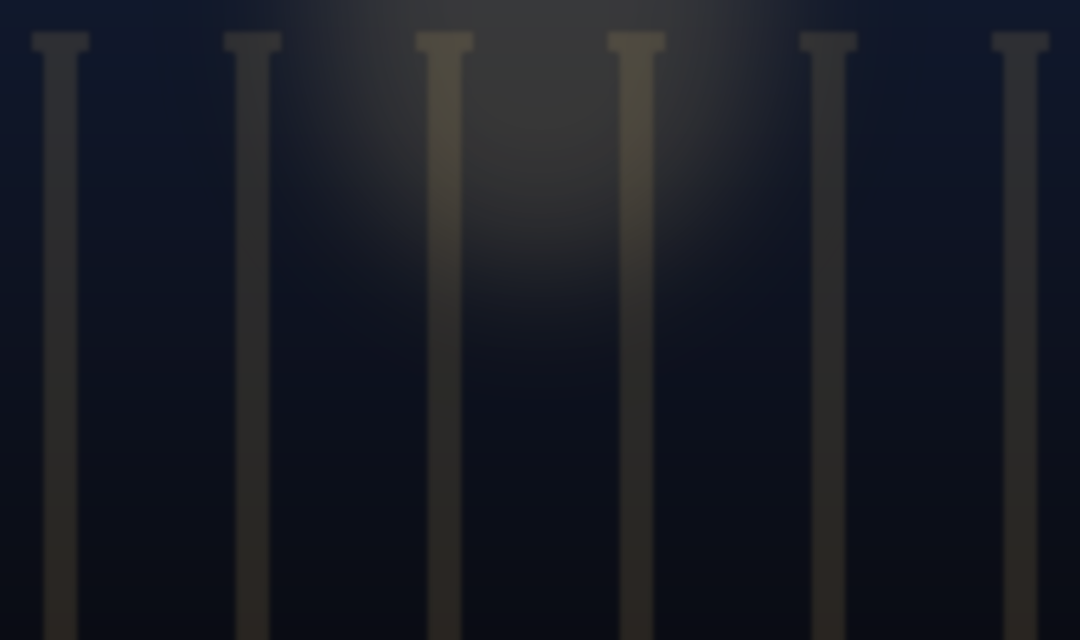
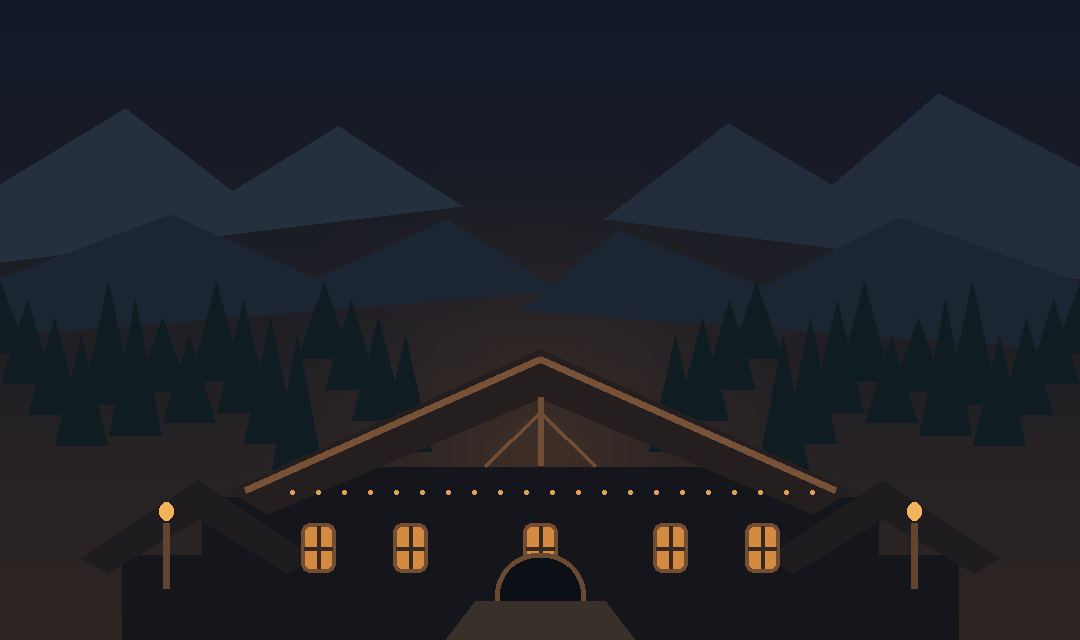
upd back + sucess

diff --git a/docs/technical/06-ui-implementation.md b/docs/technical/06-ui-implementation.md
@@ -45,8 +45,8 @@
 - `scenes/screens/quick_match.tscn`: the current deck only (`CurrentDeckTile`) and Change deck (`DeckPicker`, then the screen rebuilds keeping the opponent and difficulty); Play right after the difficulty.
 - `scenes/screens/collection.tscn`: every card, captions "× n" / "Not owned" (no links: My decks and Nibelheim are in the main menu).
 - `scenes/screens/deck_list.tscn` and `deck_editor.tscn` (`DeckBoard` label and `ChangeBoardButton`, which opens `BoardPicker`; `choose_board()` → `Cosmetics.set_board()`; Quick match puts the deck's board in `DuelSetup.player_board`, and the duel adds an `OwnBoardBackdrop` in the player's zone frame; `DeckEditor`, `DeckEditor.deck_id` set before opening; no drag and drop: a tap on a grid card adds a copy or opens `CardDetail` with the reason, a deck chip (`Chip_<id>`) has a `RemoveButton` (X) that takes a copy out, and a long press on its name (`ChipCard`) opens `CardDetail` (`LongPress`, `scenes/components/long_press.gd`; a tap does nothing); cards whose available copies are all in the deck are hidden from the grid; Auto-fill uses `DeckRules.auto_fill()`, Starter deck `DeckEditor.starter_cards()`, Empty the deck `clear_deck()`; `handle_back()` opens the `LeavePrompt` popup while `DeckRules.problems()` is not empty): player decks from `SaveManager`, rules in `DeckRules` (`data/decks/deck_rules.gd`: eligibility, `can_add()`, `problems()` as translation keys, `to_deck_data()` for the engine, curve and type counts).
-- `scenes/screens/achievements.tscn`: rows from `Achievements.LIST` (`data/achievements.gd`): progress from `profile["stats"]`, reached IDs in `profile["achievements"]`, and manually claimed IDs in `profile["claimed_achievements"]`. Reached achievements wait for a claim in this screen; the claim pays Rhinegold and XP.
-- The duel records a finished Quick match with `Achievements.record_match()` (the record replayed with a `MatchStats` observer, `data/match_stats.gd`: artifacts played, reforge, Ring, units lost; an undone play is rolled back) and takes back newly reached achievements with `Achievements.revert()` when the winning play is undone; Nibelheim calls `Achievements.record_craft()` and shows `MenuUI.toast()` (a message at the top of the screen with an icon, sliding in). Matches give XP through `PlayerLevel.add_xp()` (`data/player_level.gd`: curve, level from `profile["xp"]`, Rhinegold of each level reached; `PlayerLevel.revert()` takes it back with the match; level rewards wait in `PlayerLevel.pending_rewards()` and are paid by `claim_rewards()` from the main menu's `LevelButton`; `MenuUI.wiggle()` rotates the XP rune of the level badge, and the trophy while `Achievements.has_claimable()` — an icon placed over the button with `MenuUI.button_icon()` so only it moves); the results show `ResultHeading` (icon and status, unframed), then the `XpPanel` (`FrameIcon`, `XpLabel`, `MenuUI.level_bar()` whose gauge `_animate_xp_gauge()` fills from the XP before the match, level by level), the Rhinegold, and `ResultAchievements` (one frame, one `FrameIcon`, an `Achievement_<id>` line each), appearing one after the other (`_appear()`).
+- `scenes/screens/achievements.tscn`: rows from `Achievements.LIST` (`data/achievements.gd`): progress from match/crafting stats and unlocked cosmetics, reached IDs in `profile["achievements"]`, and manually claimed IDs in `profile["claimed_achievements"]`. Existing profile progress is reconciled on the main menu and when opening this screen. Reached achievements wait for a claim here; the claim pays Rhinegold and XP.
+- The duel records a finished Quick match with `Achievements.record_match()` (the record replayed with a `MatchStats` observer, `data/match_stats.gd`: artifacts, spells and Leader ability uses, reforge, Ring and units lost; an undone play is rolled back) and takes back newly reached achievements with `Achievements.revert()` when the winning play is undone; Nibelheim calls `Achievements.record_craft()` for cards and refreshes achievement progress after unlocking powers or backgrounds, then shows any new achievements in its toast. Matches give XP through `PlayerLevel.add_xp()` (`data/player_level.gd`: curve, level from `profile["xp"]`, Rhinegold of each level reached; `PlayerLevel.revert()` takes it back with the match; level rewards wait in `PlayerLevel.pending_rewards()` and are paid by `claim_rewards()` from the main menu's `LevelButton`; `MenuUI.wiggle()` rotates the XP rune of the level badge, and the trophy while `Achievements.has_claimable()` — an icon placed over the button with `MenuUI.button_icon()` so only it moves); the results show `ResultHeading` (icon and status, unframed), then the `XpPanel` (`FrameIcon`, `XpLabel`, `MenuUI.level_bar()` whose gauge `_animate_xp_gauge()` fills from the XP before the match, level by level), the Rhinegold, and `ResultAchievements` (one frame, one `FrameIcon`, an `Achievement_<id>` line each), appearing one after the other (`_appear()`).
 - `scenes/screens/nibelheim.tscn`: tabs `CardsTab` / `LeadersTab` / `BackgroundsTab`. Cards: the cards still missing copies, `SaveManager.craft()`; prices and rewards in `Progression` (`data/progression.gd`). Leaders (`LeaderPowers` scroll): a `Leader_<id>` panel per Leader with `Power0`…`Power2` rows, each showing a styled power title and action on separate lines; `unlock_power()` calls `LeaderPowers.unlock()` (`data/leader_powers.gd`: level and Rhinegold checked, `profile["leader_powers"]`). Backgrounds (`Backgrounds` scroll): a `Background_<id>` card per `Cosmetics.LIST` entry with `BuyButton` or `State`; `buy_background()` calls `Cosmetics.buy()` (`data/cosmetics.gd`: catalogue, level and Rhinegold, `profile["cosmetics"]`, `home_background`, a deck entry's `board`, `texture()`, `backdrop()`).
 - Deck editor: `LeaderPower` label and `ChangePowerButton`, which opens `PowerPicker` (`Power_<n>` tiles, locked ones disabled); `choose_power()` saves the deck entry's `power`. `DeckRules.to_deck_data()` gives the engine the Leader `with_power(LeaderPowers.of_entry(entry))`; the duel names the ability with `LeaderData.ability_key()`.
 - `DuelSetup` carries `DeckData` (a player deck through `DeckRules.to_deck_data()`, or a starter deck) and `rewards` (Quick match: a win pays `Progression.quick_match_reward(difficulty)`; the duel pays when the match is over and takes it back if the winning play is undone).

diff --git a/docs/functional/07-ui-ux.md b/docs/functional/07-ui-ux.md
@@ -54,7 +54,7 @@ flowchart TD
 | Collection | Rhinegold counter; no links (My decks and Nibelheim are in the main menu). Faction chips (All + one icon per faction) always shown; **Filters** (with the number of active filters) unfolds chip rows for cost (0–5, 6+), type, rarity, trait and owned / missing — one chip per row, "All" first; each row has its caption on the left (Energy, with the Energy icon; Type; Rarity; Trait; Copies) so the chips line up. Count "owned / shown". Grid of 3 cards per row, by faction, cost, then name; under each card "× n" or "Not owned" (card faded). Tapping a card opens it large with its flavour and "Owned: n (up to m per deck)"; tapping anywhere closes it |
 | My decks | One tile per deck — one per faction, the starter decks' copies —: faction icon and colour, name, Leader · "Ready to play" or the first problem ("17 / 20 cards"); a tap opens the editor; the list is centred vertically. No New deck, Duplicate or Delete |
 | Deck editor | One screen, **no drag and drop**. Top: faction icon, **name** (the faction's, not editable), Leader; the **Leader's power** in use ("Power: Walvater — Deal 2 damage to a unit. (2 Energy)") with **Change the Leader's power** (a list of the base ability and the powers, the locked ones greyed with "unlocked in Nibelheim from level 5"); the deck's **board** ("Board: Valhalla") with **Change the board** (Default and the boards owned, as pictures; without any, where to buy them); state ("Ready to play" in gold, or every problem in red). **Deck zone**: "Deck n / 20" with a **gauge** (Energy blue while filling, gold at 20), units / spells / artifacts, one chip per card (cost · name × copies, framed in the card's colour; empty: how to add cards). Below: the Leader's faction and Neutral cards, filters as in the Collection with "Owned" preselected, "in deck / available" under each card. **Tap a card to add a copy** — or, if it cannot be added, the card shows large with why; each chip has a red **X** that takes a copy out; a **long press** on its name shows the card large (copies in the deck); a plain tap on the name does nothing. A card whose available copies are all in the deck leaves the list below. A vertical swipe scrolls and never adds a card. At the bottom: **Auto-fill** and **Starter deck** (both replace the cards; on a deck that is not empty they ask first, Cancel highlighted), then **Empty the deck** (red text, asks first; hidden when the deck is empty). Leaving a deck that cannot be played (Back or the Android back button) opens a popup: "Deck not complete", its problems, **Keep editing** (highlighted) or **Leave** (red) |
-| Achievements | Rhinegold counter; "n / 13 unlocked"; one row per achievement: trophy (gold once unlocked, grey before), name, what to do, progress ("3 / 10") or Unlocked, reward ("+20 Rhinegold · +25 XP"); the list is centred vertically and scrolls. A reached achievement shows **Claim**; claiming it pays its Rhinegold and XP with a message at the top of the screen (trophy icon). An achievement reached in Nibelheim shows the same kind of message |
+| Achievements | Rhinegold counter; "n / total claimed"; one row per achievement: trophy (gold once claimed or ready to claim, grey before), name, what to do, progress ("3 / 10") or Claimed, reward ("+20 Rhinegold · +25 XP"); the list is centred vertically and scrolls. A reached achievement shows **Claim**; claiming it pays its Rhinegold and XP with a message at the top of the screen (trophy icon). An achievement reached in Nibelheim shows the same kind of message |
 | Nibelheim | Rhinegold counter; one line of story; three tabs. **Cards**: the Collection filters; the cards still missing copies (up to a deck's worth), each with "owned / max · price". A tap shows the card large with **Forge — price** (greyed, with the Rhinegold missing, when short). **Leaders**: one panel per Leader (border in the faction colour) with its base ability and its two powers — name, effect, Energy cost — and, for each power, Unlocked or its price (greyed with "From level 5" or the Rhinegold missing); unlocking shows a message at the top of the screen. **Backgrounds**: two columns of cards — picture, name, kind (Home background / Board), then Owned or its price (greyed with "From level 5" or the Rhinegold missing) |
 | Settings | Music and sound-effect volumes, language (device language or English / Deutsch / Español / Français); **home background** (Default and each one owned, as thumbnails; without any, where to buy them); **reset progress** (collection, decks, Rhinegold, campaign, achievements; asks for confirmation, Cancel highlighted; settings are kept). The content is centred vertically under the title |
 
@@ -88,6 +88,7 @@ flowchart TD
 ```
 
 - **Leader panel** (both players): portrait (or the Leader's initial while there is no art), name, Life, Energy, and the ability as a button showing its **name**, cost and effect. The opponent's ability button is read-only. Tapping the panel targets that Leader.
+- The Energy counter shows the current amount only during that Leader's turn; otherwise it shows `- / max`, since unused Energy is reset when that Leader's next turn begins.
 - Ability names come from `cards/leaders.md` (`ability_name`): Wotan — *Spear of Treaties*, Alberich — *Lord of the Nibelungs*, Siegfried — *Spear-breaker*, Brünnhilde — *Chooser of the Slain*.
 - A Leader playing with a power shows the power's name and effect instead (`cards/leader_powers.md`: German names, e.g. *Wotans Zorn*).
 - The two play areas share the free height, so the hand stays at the bottom whatever the screen ratio.

diff --git a/docs/functional/06-progression.md b/docs/functional/06-progression.md
@@ -40,25 +40,45 @@
 
 ## Achievements
 
-Quick matches count (a duel without rewards does not), and crafting in Nibelheim. Reaching a target makes an achievement available to claim in the Achievements screen; its Rhinegold and 25 XP are paid only after the player claims it. Undoing the winning play from the results takes back the match's statistics and any achievements it newly made available.
+Quick matches count (a duel without rewards does not): wins, artifacts, spells and Leader ability uses. Crafting, unlocking Leader powers and unlocking backgrounds in Nibelheim count too. Reaching a target makes an achievement available to claim in the Achievements screen; its Rhinegold and 25 XP are paid only after the player claims it. Undoing the winning play from the results takes back the match's statistics and any achievements it newly made available.
 
 | Achievement | To do | Rhinegold |
 |-------------|-------|-----------|
 | *Hojotoho!* | Win a Quick match | 20 |
-| *Einherjar* | Win 10 matches | 50 |
-| *Valhalla* | Win 50 matches | 150 |
+| *Battle-tested* | Win 5 Quick matches | 30 |
+| *Einherjar* | Win 10 Quick matches | 50 |
+| *Legend of Midgard* | Win 20 Quick matches | 80 |
+| *Valhalla* | Win 50 Quick matches | 150 |
+| *Balanced Victory* | Win a Quick match on Normal difficulty | 30 |
 | *The Ring Cycle* | Play 100 matches | 100 |
 | *Four Evenings* | Win with each of the four Leaders | 100 |
 | *Götterdämmerung* | Win a match on Hard | 60 |
 | *Twilight* | Win with your Leader at 1 Life | 40 |
 | *Renunciation of Love* | Win holding the Ring, the opponent never having had it | 40 |
 | *Notung! Notung!* | Reforge Nothung in 10 matches | 80 |
-| *The Nibelung Hoard* | Play 20 artifacts | 40 |
+| *Relic Seeker* | Play 10 artifacts in Quick matches | 20 |
+| *The Nibelung Hoard* | Play 20 artifacts in Quick matches | 40 |
+| *Hoard Keeper* | Play 50 artifacts in Quick matches | 100 |
+| *Rune Reader* | Play 10 spells in Quick matches | 20 |
+| *Rune Singer* | Play 20 spells in Quick matches | 40 |
+| *Master of Runes* | Play 50 spells in Quick matches | 100 |
+| *Call of the Leader* | Use your Leader's ability 10 times in Quick matches | 20 |
+| *Leader's Command* | Use your Leader's ability 20 times in Quick matches | 40 |
+| *Master of the Leader's Power* | Use your Leader's ability 50 times in Quick matches | 100 |
 | *Invulnerable* | Win without losing a unit | 60 |
 | *Mime's Apprentice* | Forge a card in Nibelheim | 20 |
+| *Craftsman's Hand* | Forge 2 cards in Nibelheim | 20 |
+| *Master Smith* | Forge 5 cards in Nibelheim | 40 |
 | *The Forging Song* | Forge 10 cards in Nibelheim | 60 |
+| *Power Awakened* | Unlock a Leader power in Nibelheim | 20 |
+| *Double Power* | Unlock 2 Leader powers in Nibelheim | 40 |
+| *Power Collector* | Unlock 4 Leader powers in Nibelheim | 80 |
+| *Master of All Powers* | Unlock every available Leader power in Nibelheim | 150 |
+| *World Wanderer* | Unlock a background in Nibelheim | 20 |
+| *Realm Explorer* | Unlock 2 backgrounds in Nibelheim | 40 |
+| *Across All Realms* | Unlock every available background in Nibelheim | 100 |
 
-> **Decision (2026-11-20):** first set of 13 achievements paying Rhinegold (and, since the [player level](#player-level), 25 XP each); *Renunciation of Love* becomes "win holding the Ring, the opponent never having had it" (the Ring does not exist at the start of a match). No tiers (bronze / silver / gold): dropped on 2026-11-26.
+> **Decision (2026-11-20):** the initial set paid Rhinegold (and, since the [player level](#player-level), 25 XP each); *Renunciation of Love* means "win holding the Ring, the opponent never having had it" (the Ring does not exist at the start of a match). Bronze / silver / gold badges were dropped on 2026-11-26; cumulative milestone achievements were added on 2026-11-27.
 
 ## Player level
 
@@ -134,9 +154,9 @@ Backgrounds are **bought in Nibelheim** (Backgrounds tab), like Leader powers: e
 | Background | Kind | Level | Rhinegold |
 |------------|------|-------|-----------|
 | *The Rhine Depths* | Home | 5 | 150 |
-| *Valhalla* | Board | 10 | 200 |
+| *The Gibichung Hall* | Board | 10 | 200 |
 | *Nibelheim* | Home | 15 | 300 |
-| *The Valkyrie Rock* | Board | 20 | 400 |
+| *Fafnir's Forest* | Board | 20 | 400 |
 | *Valhalla in Flames* | Home | 25 | 500 |
 | *The Ring* | Board | 30 | 600 |
 

diff --git a/docs/roadmap.md b/docs/roadmap.md
@@ -1,7 +1,7 @@
 # Roadmap
 
 > Development milestones from the spec to the first Google Play release, with progress tracking.
-> Status: Draft · Last updated: 2026-11-20
+> Status: Draft · Last updated: 2026-11-27
 
 Principle: reach a **playable match on the phone** as early as possible (milestone 3), then measure match length to validate the rules (Götterdämmerung at turn 10, Ring curse) before building the meta and the campaign.
 
@@ -114,7 +114,7 @@ No `Node` dependency; everything tested ([game engine](technical/04-game-engine.
 Achievements, the player level, Leader powers and cosmetics are done; the background artwork is in the [art & audio track](#art--audio-track-in-parallel). Later ideas: [progression ideas](functional/06-progression.md#ideas-to-refine-2026-11-20).
 
 - [x] Decide the scope: achievements, a player level that locks nothing (Rhinegold, then cosmetics), campaign chapters story-gated (decided 2026-11-20); Leader powers decided the same day (upgrades, level + Rhinegold); cosmetics keep their open questions in their own item below
-- [x] Achievements, first set: 13 achievements paying Rhinegold once claimed in their screen, counted on Quick matches and crafting, taken back with an undone winning play; Achievements screen (trophy in the main menu), shown on the results and in Nibelheim ([achievements](functional/06-progression.md#achievements))
+- [x] Achievements: 33 achievements paying Rhinegold and XP once claimed in their screen, with cumulative milestones for wins, match actions, crafting, Leader powers and backgrounds; Quick-match progress is taken back with an undone winning play. Achievements screen (trophy in the main menu), shown on the results and in Nibelheim ([achievements](functional/06-progression.md#achievements))
 - [x] Player level: XP from every finished Quick match (10, or 20 / 30 / 40 for a win) and from achievements (25); 20 + 10 × (n − 1) XP a level, up to level 30; +40 Rhinegold a level, claimed in the main menu; shown in the main menu and on the results; chapters stay story-gated ([player level](functional/06-progression.md#player-level))
 - [x] Cosmetics: 3 home backgrounds and 3 boards, from levels 5 to 30, bought with Rhinegold in Nibelheim (Backgrounds tab); home background chosen in Settings, board per deck in the deck editor, shown behind the player's play area ([cosmetics](functional/06-progression.md#cosmetics))
 - [x] Leader powers: two upgraded versions of each Leader's ability, unlocked in Nibelheim (Leaders tab) with a level and Rhinegold (5 / 300, 10 / 600), chosen per deck in the deck editor; the AI draws one at random; tuned with the soak to about +10 points ([Leader powers](functional/06-progression.md#leader-powers))
@@ -160,8 +160,8 @@ No code dependency: can start now ([art & audio](functional/08-art-and-audio.md)
   - [ ] Home background *The Rhine Depths* — `backgrounds/home_rhine_depths.png`, 1080 × 1920
   - [ ] Home background *Nibelheim* — `backgrounds/home_nibelheim.png`, 1080 × 1920
   - [ ] Home background *Valhalla in Flames* — `backgrounds/home_valhalla_burning.png`, 1080 × 1920
-  - [ ] Board *Valhalla* — `boards/board_valhalla.png`, 1080 × 640
-  - [ ] Board *The Valkyrie Rock* — `boards/board_valkyrie_rock.png`, 1080 × 640
+  - [ ] Board *The Gibichung Hall* — `boards/board_valhalla.png`, 1080 × 640
+  - [ ] Board *Fafnir's Forest* — `boards/board_valkyrie_rock.png`, 1080 × 640
   - [ ] Board *The Ring* — `boards/board_ring.png`, 1080 × 640
 - [ ] Leitmotif stingers and first music loop ([audio tools](tools/audio-tools.md))
 - [ ] Sound effects: draw, play, attack, damage, death, end turn

diff --git a/docs/technical/09-testing.md b/docs/technical/09-testing.md
@@ -1,7 +1,7 @@
 # Testing
 
 > Test strategy and tooling.
-> Status: Draft · Last updated: 2026-10-30
+> Status: Draft · Last updated: 2026-11-27
 
 ## Framework
 
@@ -35,7 +35,7 @@
 - Tests create matches with a fixed seed and stacked decks (`Match.create_for_test(deck_order_a, deck_order_b)`).
 - A replay test re-applies a saved action list and compares the final state hash.
 - `tests/unit/test_match_record.gd` replays a recorded match (after a JSON round trip, with an undone play) to the same state hash, and checks what must not replay (changed card data, unknown card, rejected action).
-- `tests/unit/test_achievements.gd`: statistics and unlocking (once, with its Rhinegold), taking a match back, `MatchStats` counting only the player's plays and forgetting an undone one; `tests/integration/test_menus.gd` covers the duel (unlock on a Quick match win, shown on the results, taken back with the undo), the Achievements screen and Nibelheim.
+- `tests/unit/test_achievements.gd`: achievement milestones and manual claims, taking a match back, `MatchStats` counting only the player's plays and forgetting an undone one; `tests/integration/test_menus.gd` covers the duel (unlock on a Quick match win, shown on the results, taken back with the undo), legacy-profile milestone reconciliation, the Achievements screen and Nibelheim power/background unlocks.
 - `tests/unit/test_leader_powers.gd`: two powers per Leader (level 5 / 300, level 10 / 600), `LeaderData.with_power()` leaving the base Leader untouched, unlocking (level, then Rhinegold, once), a deck playing its power only once unlocked, the powers read back as ints, the engine and the match record (snapshot, rebuild, content hash) using the power, and the AI's random version; `tests/integration/test_menus.gd` covers the Nibelheim Leaders tab (greyed with the level needed, unlocked for its price) and the deck editor's power picker.
 - `tests/unit/test_cosmetics.gd`: the catalogue (3 home backgrounds, 3 boards, levels 5–30, a picture and a name each), buying (level, then Rhinegold, once), only an owned background of the right kind used; `tests/integration/test_menus.gd` buys them in Nibelheim, chooses the home background in Settings (shown by the main menu) and a board in the deck editor (played behind the player's units).
 - `tests/unit/test_player_level.gd`: the XP curve and its cap, match XP by result and difficulty, level rewards waiting, claimed once and taken back with the levels, the v4 → v5 migration keeping old levels paid; `tests/unit/test_long_press.gd`: a long press, nothing for a tap or a drag; `tests/integration/test_menus.gd` checks the XP and level ups of a Quick match win on the results (taken back with the undo), the level bar on the main menu and a level reached by forging in Nibelheim.

diff --git a/docs/technical/07-persistence.md b/docs/technical/07-persistence.md
@@ -44,7 +44,7 @@ On Android `user://` maps to the app's private internal storage.
 
 - Atomic writes: write to `profile.json.tmp`, then rename over `profile.json`; keep `profile.json.bak`.
 - On load error: fall back to `.bak`, then to a fresh profile (and log it). After a restore from `.bak`, the next save **deletes** the unreadable `profile.json` instead of rotating it into `.bak`, so the good backup is not lost.
-- `stats`: the counters achievements read (`Achievements.LIST`); a profile without it (before 2026-11-20) gets `{}` like any missing key, so no version change.
+- `stats`: the counters achievements read (`Achievements.LIST`), including match counts such as spells and Leader ability uses; a profile without it gets `{}` like any missing key. Unlock counts are derived from the existing `leader_powers` and `cosmetics` fields, so adding achievement milestones needs no save migration.
 - `xp`: total XP; the player level is derived from it (`PlayerLevel`). Missing in older profiles: `0`, no version change.
 - `level_rewards_claimed` (v5, 2026-11-23): the highest level whose Rhinegold was claimed (`PlayerLevel.claim_rewards()`); the levels above it up to the current one wait in the main menu. The v4 → v5 migration sets it to the level reached, since those levels were paid when reached.
 - `cosmetics` (backgrounds bought in Nibelheim), `home_background` (the one used by the main menu, `""` = default) and a deck's `board`: `Cosmetics`. Missing in older profiles: their defaults, no version change.

diff --git a/docs/functional/08-art-and-audio.md b/docs/functional/08-art-and-audio.md
@@ -154,6 +154,7 @@ Buttons can get a painted frame instead of the flat theme colours:
 > **Decision (2026-11-26):** a board covers only the player's play area (not the whole duel); boards and home backgrounds are cosmetics bought in Nibelheim.
 - Composition: interest at the **top and bottom edges**; keep the two play areas (roughly the middle 60 % of the height) **calm and low in contrast**, since cards sit on them.
 - Muted tones from the Romantic palette; no text.
+- Board themes: the Gibichung hall (the Burgundian court of the *Nibelungenlied*) and Fáfnir's forest (inspired by the dragon episode in the *Völsunga saga*).
 
 ## Audio
 
